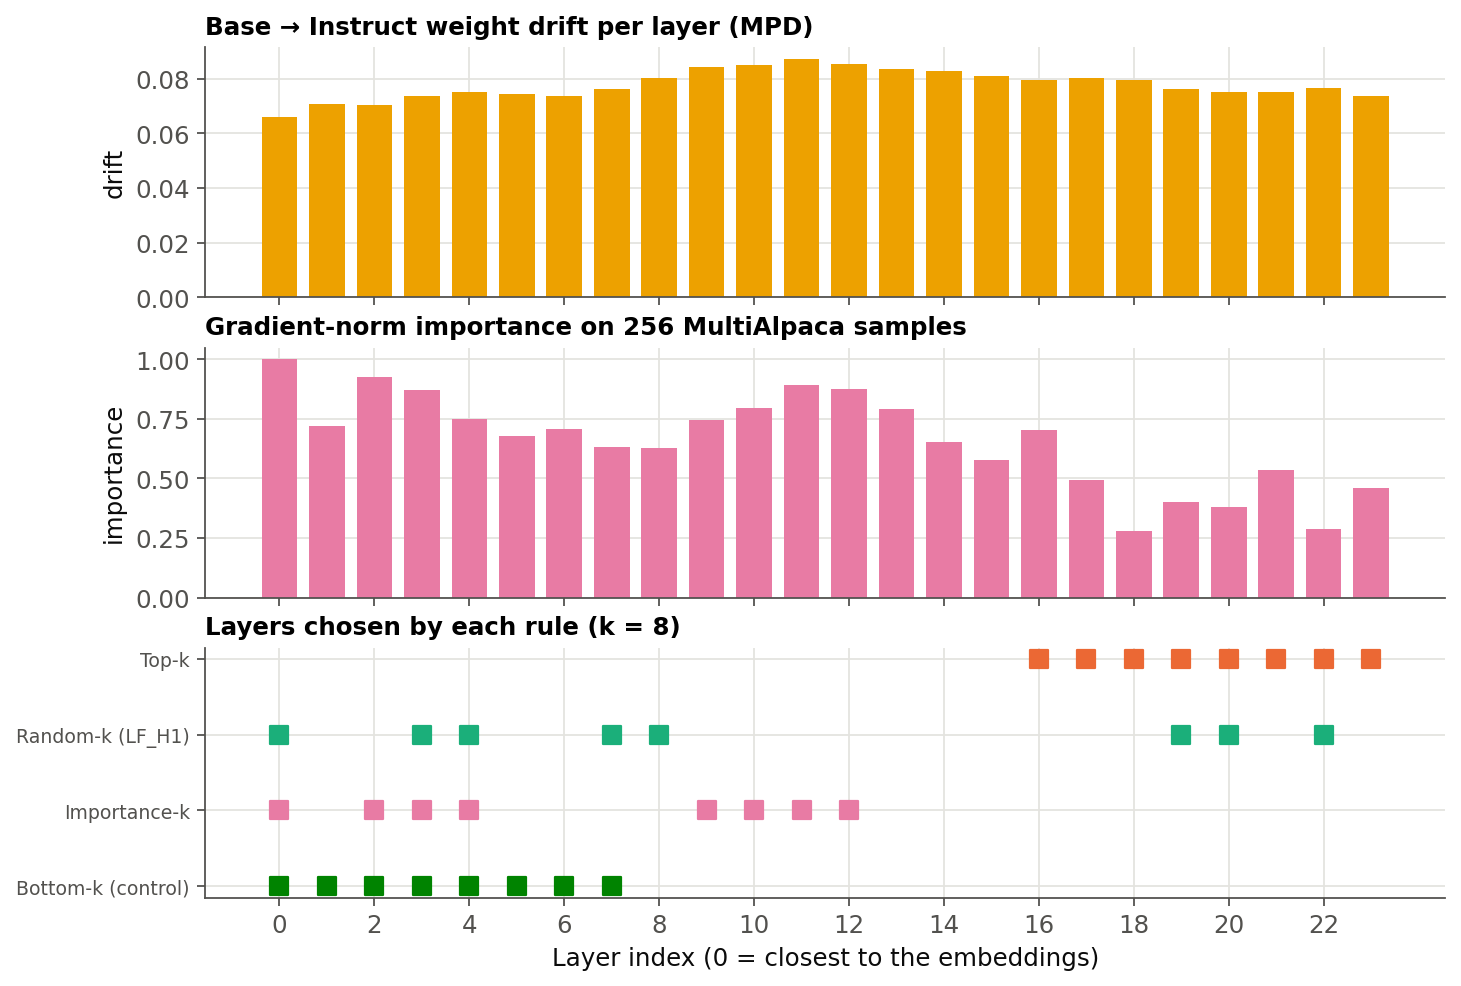
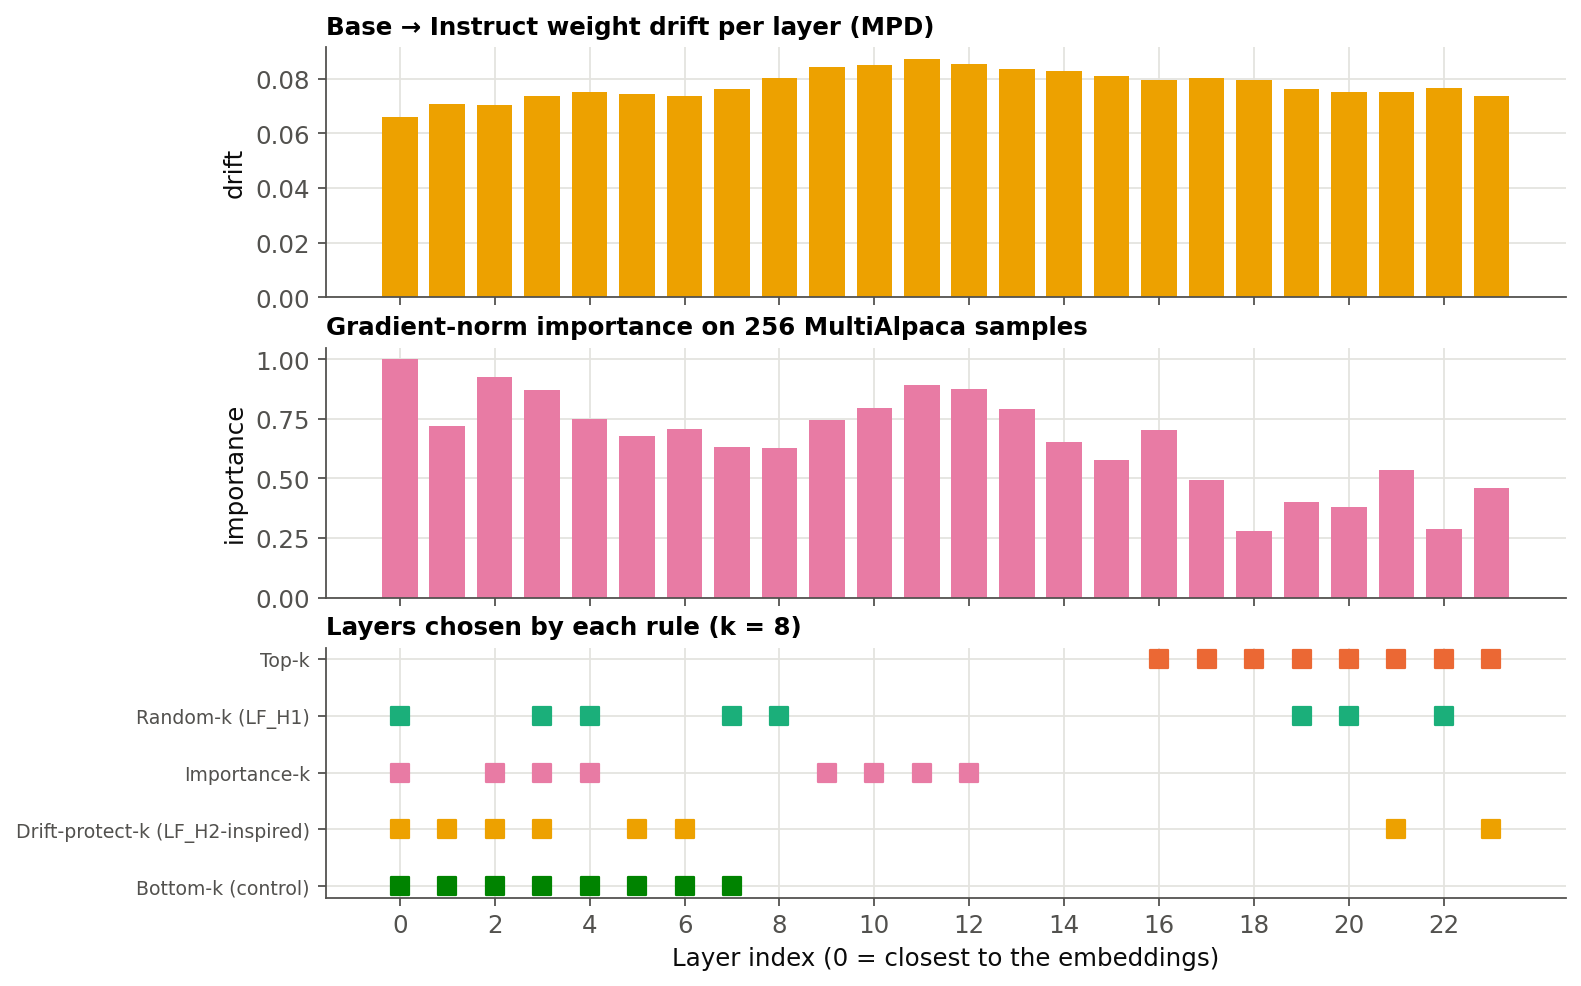
results: add drift runs to table and plots

diff --git a/scripts/plot.py b/scripts/plot.py
@@ -22,7 +22,7 @@ os.makedirs(OUT, exist_ok=True)
 RULE_COLORS = {"all": "#2a78d6", "top": "#eb6834", "random": "#1baf7a", "drift_protect": "#eda100",
                "importance": "#e87ba4", "budgeted": "#6250d6", "bottom": "#008300"}
 RULE_LABEL = {"all": "All-layer LoRA", "top": "Top-k", "random": "Random-k (LF_H1)",
-              "drift_protect": "Drift-protect-k (LF_H2)", "importance": "Importance-k", "budgeted": "Budgeted",
+              "drift_protect": "Drift-protect-k (LF_H2-inspired)", "importance": "Importance-k", "budgeted": "Budgeted",
               "bottom": "Bottom-k (control)"}
 INK, MUTED, GRID = "#0b0b0b", "#52514e", "#e4e3df"
 plt.rcParams.update({"font.size": 11, "axes.edgecolor": MUTED, "axes.labelcolor": INK, "xtick.color": MUTED,
@@ -72,7 +72,7 @@ def pareto(df):
             ax.scatter(g.mem, g[y], s=40 + 6 * g.k, color=RULE_COLORS.get(rule, MUTED), label=RULE_LABEL.get(rule, rule),
                        edgecolor="white", linewidth=1.5, zorder=3)
             for _, r in g.iterrows():
-                if rule in ("all", "top", "budgeted", "importance"):
+                if rule in ("all", "top", "budgeted", "importance", "drift_protect"):
                     ax.annotate(r.run_id, (r.mem, r[y]), xytext=(5, 4), textcoords="offset points", fontsize=8, color=MUTED)
         f = frontier(df, y, hb)
         if len(f) > 1:

diff --git a/results/summary.md b/results/summary.md
@@ -7,8 +7,11 @@
 | budget50 | `...........#######.###.#` | chunk | 3.953 | -52 | 5143 | 1.589 | 0.5055 | -1.44 | 0.4117 | 1 |
 | lora_all_q4_gc | `########################` | NF4+GC+chunk | 4.777 | -42 | 1868 |  |  |  |  |  |
 | imp4 | `#.#........##...........` | chunk | 5.096 | -38.1 | 5003 | 1.602 | 0.5087 | -1.12 | 0.4183 | 1.67 |
+| drift4 | `###...#.................` | chunk | 5.096 | -38.1 | 5341 | 1.606 | 0.5278 | 0.8 | 0.4283 | 2.67 |
+| drift8 | `####.##..............#.#` | chunk | 5.351 | -35 | 4908 | 1.587 | 0.5356 | 1.57 | 0.425 | 2.33 |
 | imp8 | `#.###....####...........` | chunk | 5.351 | -35 | 4675 | 1.597 | 0.5087 | -1.12 | 0.4 | -0.17 |
 | random8 | `#..##..##..........##.#.` | chunk | 5.403 | -34.4 | 4171 | 1.583 | 0.5434 | 2.35 | 0.41 | 0.83 |
+| drift12 | `########...........###.#` | chunk | 5.607 | -31.9 | 4459 | 1.58 | 0.5389 | 1.9 | 0.4217 | 2 |
 | imp12 | `#######.#####...........` | chunk | 5.607 | -31.9 | 4248 | 1.595 | 0.5144 | -0.55 | 0.405 | 0.33 |
 | top4 | `....................####` | chunk | 6.134 | -25.5 | 7104 |  |  |  |  |  |
 | bottom8 | `########................` | chunk | 6.53 | -20.7 | 4140 | 1.602 | 0.5423 | 2.24 | 0.4117 | 1 |
